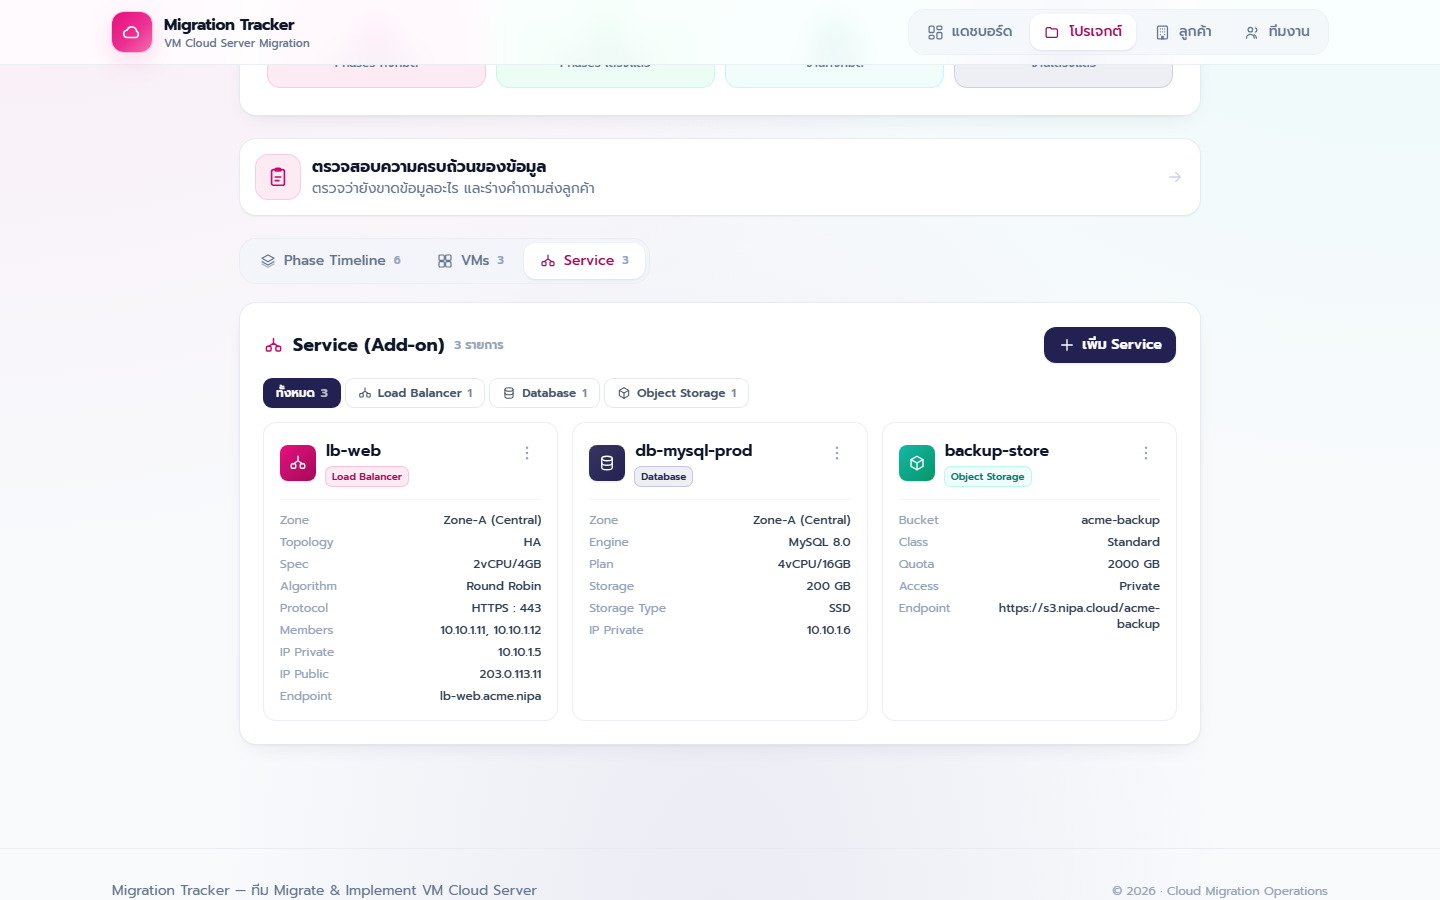
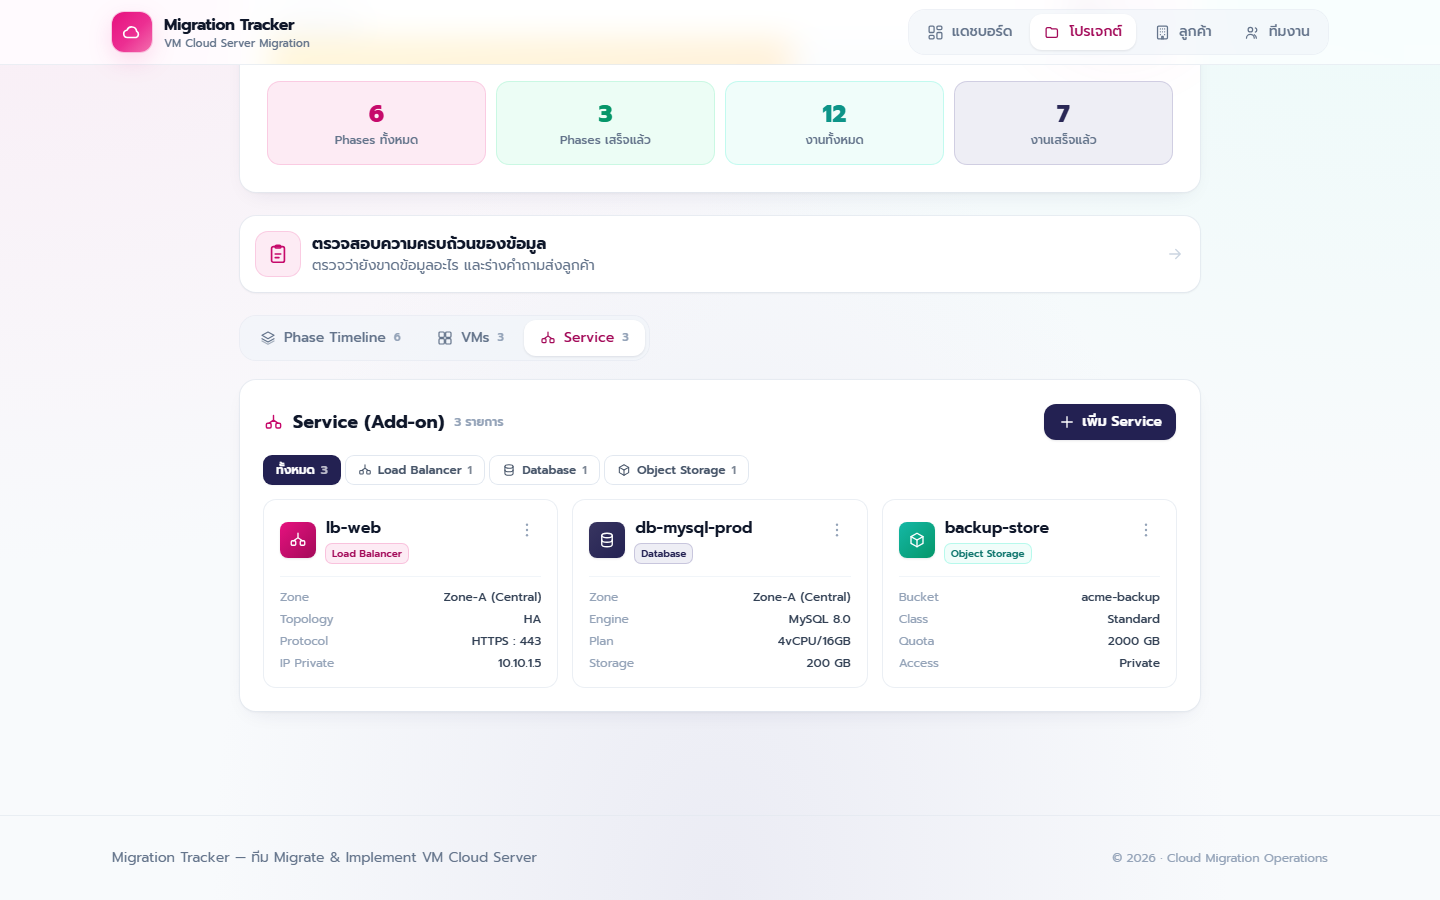
Add Service detail popup; cards now show key info only
การ์ด Service เดิมยัดทุกฟิลด์ลงไป (LB 9 แถว, Database 6, Object Storage 5)
ทำให้การ์ดสูงและอ่านยาก ทั้งที่ส่วนใหญ่แค่อยากกวาดตาดูภาพรวม

- การ์ดเหลือเฉพาะข้อมูลหลัก 4 แถวเท่ากันทุกประเภท
  LB: Zone / Topology / Protocol:Port / IP Private
  Database: Zone / Engine / Plan / Storage
  Object Storage: Bucket / Class / Quota / Access
  ความสูงการ์ดลดจาก 297px เหลือ 187px
- กดที่การ์ดเปิด popup รายละเอียดเต็มแบบจัดกลุ่ม เหมือน popup ของ VM
  แบ่งเป็น ทั่วไป / การกระจายโหลด (หรือ Storage) / Network ตามประเภท
  พร้อม chip บอกประเภท-zone-topology และปุ่มแก้ไขที่ท้าย
- เพิ่ม "ดูรายละเอียด" ในเมนู 3 จุด และกันคลิกที่เมนูไม่ให้ทะลุไปเปิด popup

เพิ่มภาพ 08-service-detail.png และอัปเดต 05-services.png ใน README

diff --git a/src/components/ServicePanel.tsx b/src/components/ServicePanel.tsx
@@ -5,7 +5,8 @@ import ActionMenu from './ActionMenu'
 import ServiceFormModal from './ServiceFormModal'
 import ImportAssetsModal from './ImportAssetsModal'
 import ConfirmDialog from './ConfirmDialog'
-import { IconBalance, IconDatabase, IconBox, IconPlus, IconPencil, IconTrash, IconRows } from './Icons'
+import Modal from './Modal'
+import { IconBalance, IconDatabase, IconBox, IconPlus, IconPencil, IconTrash, IconRows, IconArrowRight } from './Icons'
 
 const META: Record<ServiceType, { Icon: typeof IconBalance; tint: string; chip: string }> = {
   'Load Balancer': {
@@ -26,39 +27,62 @@ const META: Record<ServiceType, { Icon: typeof IconBalance; tint: string; chip: 
 }
 const ORDER: ServiceType[] = ['Load Balancer', 'Database', 'Object Storage']
 
-/** ค่าที่ยาวและควรขึ้นบรรทัดใหม่แทนการตัดข้อความ */
-const WRAP_LABELS = new Set(['Members', 'Endpoint', 'Bucket'])
+type Row = { label: string; value: string }
 
-function rowsFor(sv: Service): { label: string; value: string }[] {
-  const rows: { label: string; value: string }[] = []
-  const push = (label: string, value?: string | number) => {
-    if (value !== undefined && value !== null && String(value).trim() !== '') rows.push({ label, value: String(value) })
+const mk = (label: string, value?: string | number): Row | null =>
+  value !== undefined && value !== null && String(value).trim() !== '' ? { label, value: String(value) } : null
+
+const clean = (rows: (Row | null)[]): Row[] => rows.filter((r): r is Row => r !== null)
+
+/** ข้อมูลหลักที่โชว์บนการ์ด — รายละเอียดเต็มดูใน popup */
+function summaryRowsFor(sv: Service): Row[] {
+  if (sv.type === 'Database') {
+    return clean([
+      mk('Zone', sv.availabilityZone),
+      mk('Engine', [sv.engine, sv.version].filter(Boolean).join(' ')),
+      mk('Plan', sv.plan),
+      mk('Storage', sv.capacityGB ? sv.capacityGB + ' GB' : ''),
+    ])
   }
-  if (sv.type === 'Load Balancer') {
-    push('Zone', sv.availabilityZone)
-    push('Topology', sv.topology)
-    push('Spec', sv.spec)
-    push('Algorithm', sv.algorithm)
-    push('Protocol', [sv.protocol, sv.port].filter(Boolean).join(' : '))
-    push('Members', sv.members)
-    push('IP Private', sv.ipPrivate)
-    push('IP Public', sv.ipPublic)
-  } else if (sv.type === 'Database') {
-    push('Zone', sv.availabilityZone)
-    push('Engine', [sv.engine, sv.version].filter(Boolean).join(' '))
-    push('Plan', sv.plan)
-    push('Storage', sv.capacityGB ? `${sv.capacityGB} GB` : '')
-    push('Storage Type', sv.storageType)
-    push('IP Private', sv.ipPrivate)
-    push('IP Public', sv.ipPublic)
+  if (sv.type === 'Object Storage') {
+    return clean([
+      mk('Bucket', sv.bucket),
+      mk('Class', sv.storageClass),
+      mk('Quota', sv.capacityGB ? sv.capacityGB + ' GB' : ''),
+      mk('Access', sv.access),
+    ])
+  }
+  return clean([
+    mk('Zone', sv.availabilityZone),
+    mk('Topology', sv.topology),
+    mk('Protocol', [sv.protocol, sv.port].filter(Boolean).join(' : ')),
+    mk('IP Private', sv.ipPrivate),
+  ])
+}
+
+/** รายละเอียดเต็มแบบจัดกลุ่มสำหรับ popup */
+function detailGroups(sv: Service): { title: string; rows: Row[] }[] {
+  let raw: { title: string; rows: (Row | null)[] }[]
+  if (sv.type === 'Database') {
+    raw = [
+      { title: 'ทั่วไป', rows: [mk('Availability Zone', sv.availabilityZone), mk('Engine', sv.engine), mk('Version', sv.version), mk('Plan', sv.plan)] },
+      { title: 'Storage', rows: [mk('Storage', sv.capacityGB ? sv.capacityGB + ' GB' : ''), mk('Storage Type', sv.storageType)] },
+      { title: 'Network', rows: [mk('IP Private', sv.ipPrivate), mk('IP Public', sv.ipPublic)] },
+    ]
+  } else if (sv.type === 'Object Storage') {
+    raw = [
+      { title: 'ทั่วไป', rows: [mk('Bucket', sv.bucket), mk('Storage Class', sv.storageClass), mk('Access', sv.access)] },
+      { title: 'Storage', rows: [mk('Quota', sv.capacityGB ? sv.capacityGB + ' GB' : '')] },
+      { title: 'Network', rows: [mk('Endpoint', sv.endpoint)] },
+    ]
   } else {
-    push('Bucket', sv.bucket)
-    push('Class', sv.storageClass)
-    push('Quota', sv.capacityGB ? `${sv.capacityGB} GB` : '')
-    push('Access', sv.access)
+    raw = [
+      { title: 'ทั่วไป', rows: [mk('Availability Zone', sv.availabilityZone), mk('Topology', sv.topology), mk('Spec', sv.spec)] },
+      { title: 'การกระจายโหลด', rows: [mk('Algorithm', sv.algorithm), mk('Protocol', sv.protocol), mk('Port', sv.port), mk('Members', sv.members)] },
+      { title: 'Network', rows: [mk('IP Private', sv.ipPrivate), mk('IP Public', sv.ipPublic), mk('Endpoint', sv.endpoint)] },
+    ]
   }
-  if (sv.type !== 'Database') push('Endpoint', sv.endpoint)
-  return rows
+  return raw.map((g) => ({ title: g.title, rows: clean(g.rows) })).filter((g) => g.rows.length > 0)
 }
 
 export default function ServicePanel({ project, active }: { project: Project; active: boolean }) {
@@ -67,6 +91,7 @@ export default function ServicePanel({ project, active }: { project: Project; ac
   const [toDelete, setToDelete] = useState<Service | null>(null)
   const [importOpen, setImportOpen] = useState(false)
   const [filter, setFilter] = useState<ServiceType | 'all'>('all')
+  const [detail, setDetail] = useState<Service | null>(null)
 
   const services = project.services ?? []
 
@@ -139,7 +164,8 @@ export default function ServicePanel({ project, active }: { project: Project; ac
                 return (
                   <div
                     key={sv.id}
-                    className="h-full flex flex-col rounded-xl ring-1 ring-ink-200/70 bg-white p-4 hover:shadow-card hover:ring-brand-200 transition-all"
+                    onClick={() => setDetail(sv)}
+                    className="h-full flex flex-col rounded-xl ring-1 ring-ink-200/70 bg-white p-4 cursor-pointer hover:shadow-card hover:ring-brand-200 transition-all"
                   >
                     <div className="flex items-start justify-between gap-2">
                       <div className="flex items-center gap-2.5 min-w-0">
@@ -153,26 +179,23 @@ export default function ServicePanel({ project, active }: { project: Project; ac
                           </span>
                         </div>
                       </div>
-                      <ActionMenu
-                        ariaLabel="ตัวเลือก Service"
-                        buttonClassName="w-7 h-7 shrink-0 rounded-lg text-ink-400 hover:text-ink-700 hover:bg-ink-100 flex items-center justify-center transition-colors"
-                        items={[
-                          { label: 'แก้ไข', icon: <IconPencil width={16} height={16} />, onClick: () => setModal({ open: true, service: sv }) },
-                          { label: 'ลบ', danger: true, icon: <IconTrash width={16} height={16} />, onClick: () => setToDelete(sv) },
-                        ]}
-                      />
+                      <div onClick={(e) => e.stopPropagation()}>
+                        <ActionMenu
+                          ariaLabel="ตัวเลือก Service"
+                          buttonClassName="w-7 h-7 shrink-0 rounded-lg text-ink-400 hover:text-ink-700 hover:bg-ink-100 flex items-center justify-center transition-colors"
+                          items={[
+                            { label: 'ดูรายละเอียด', icon: <IconArrowRight width={16} height={16} />, onClick: () => setDetail(sv) },
+                            { label: 'แก้ไข', icon: <IconPencil width={16} height={16} />, onClick: () => setModal({ open: true, service: sv }) },
+                            { label: 'ลบ', danger: true, icon: <IconTrash width={16} height={16} />, onClick: () => setToDelete(sv) },
+                          ]}
+                        />
+                      </div>
                     </div>
                     <dl className="mt-3 pt-3 border-t border-ink-100 space-y-1.5">
-                      {rowsFor(sv).map((r, i) => (
+                      {summaryRowsFor(sv).map((r, i) => (
                         <div key={i} className="flex justify-between items-baseline gap-3 text-xs">
                           <dt className="text-ink-400 shrink-0">{r.label}</dt>
-                          <dd
-                            className={`text-ink-700 font-medium text-right min-w-0 ${
-                              WRAP_LABELS.has(r.label) ? 'break-words' : 'truncate'
-                            }`}
-                          >
-                            {r.value}
-                          </dd>
+                          <dd className="text-ink-700 font-medium text-right truncate">{r.value}</dd>
                         </div>
                       ))}
                     </dl>
@@ -183,6 +206,71 @@ export default function ServicePanel({ project, active }: { project: Project; ac
           </>
         )}
       </div>
+
+      <Modal
+        open={!!detail}
+        onClose={() => setDetail(null)}
+        wide
+        title={detail?.name || 'Service'}
+        subtitle="รายละเอียดบริการเสริม (Add-on)"
+      >
+        {detail && (
+          <div className="space-y-4">
+            <div className="flex flex-wrap items-center gap-2">
+              <span className={`inline-flex items-center gap-1.5 text-xs font-semibold px-2.5 py-1 rounded-full ring-1 ${META[detail.type].chip}`}>
+                {(() => { const I = META[detail.type].Icon; return <I width={13} height={13} /> })()}
+                {detail.type}
+              </span>
+              {detail.availabilityZone && (
+                <span className="inline-flex items-center text-xs font-medium px-2.5 py-1 rounded-full bg-ink-100 text-ink-600">
+                  {detail.availabilityZone}
+                </span>
+              )}
+              {detail.topology && (
+                <span className="inline-flex items-center text-xs font-medium px-2.5 py-1 rounded-full bg-ink-100 text-ink-600">
+                  {detail.topology}
+                </span>
+              )}
+            </div>
+
+            {detailGroups(detail).map((group, gi) => (
+              <div key={gi} className="rounded-xl ring-1 ring-ink-200/70 bg-ink-50/50 p-4">
+                <p className="text-[11px] font-semibold text-ink-400 uppercase tracking-wider mb-2.5">{group.title}</p>
+                <dl className="grid grid-cols-1 sm:grid-cols-2 lg:grid-cols-3 gap-x-8 gap-y-2.5">
+                  {group.rows.map((r, i) => (
+                    <div key={i} className="flex justify-between gap-3 text-sm">
+                      <dt className="text-ink-400 shrink-0">{r.label}</dt>
+                      <dd className="text-ink-900 font-medium text-right break-words min-w-0">{r.value}</dd>
+                    </div>
+                  ))}
+                </dl>
+              </div>
+            ))}
+
+            {detail.note && (
+              <div className="rounded-xl ring-1 ring-ink-200/70 bg-ink-50/50 p-4">
+                <p className="text-[11px] font-semibold text-ink-400 uppercase tracking-wider mb-1.5">หมายเหตุ</p>
+                <p className="text-sm text-ink-700 leading-relaxed">{detail.note}</p>
+              </div>
+            )}
+
+            <div className="flex justify-end gap-2 pt-1">
+              <button
+                onClick={() => setDetail(null)}
+                className="px-4 py-2 rounded-xl text-sm font-semibold text-ink-600 hover:bg-ink-100 transition-colors"
+              >
+                ปิด
+              </button>
+              <button
+                onClick={() => { const sv = detail; setDetail(null); setModal({ open: true, service: sv }) }}
+                className="inline-flex items-center gap-1.5 px-5 py-2 rounded-xl text-sm font-semibold text-white bg-navy-700 hover:bg-navy-800 shadow-soft transition-colors"
+              >
+                <IconPencil width={15} height={15} /> แก้ไข
+              </button>
+            </div>
+          </div>
+        )}
+      </Modal>
 
       <ServiceFormModal
         open={modal.open}

diff --git a/README.md b/README.md
@@ -80,6 +80,10 @@ npm run dev
 
 ![Service](docs/screenshots/05-services.png)
 
+การ์ดแสดงเฉพาะข้อมูลหลัก คลิกที่การ์ดเพื่อดูรายละเอียดเต็มแบบจัดกลุ่ม
+
+![รายละเอียด Service](docs/screenshots/08-service-detail.png)
+
 ### 📥 นำเข้าจาก Excel / CSV — จำแนก sheet ให้อัตโนมัติ
 
 ไฟล์ที่ได้จากลูกค้ามักเป็น workbook เดียวที่มีหลาย sheet ปนกัน (List VM, Service, Diagram, Action Plan)
